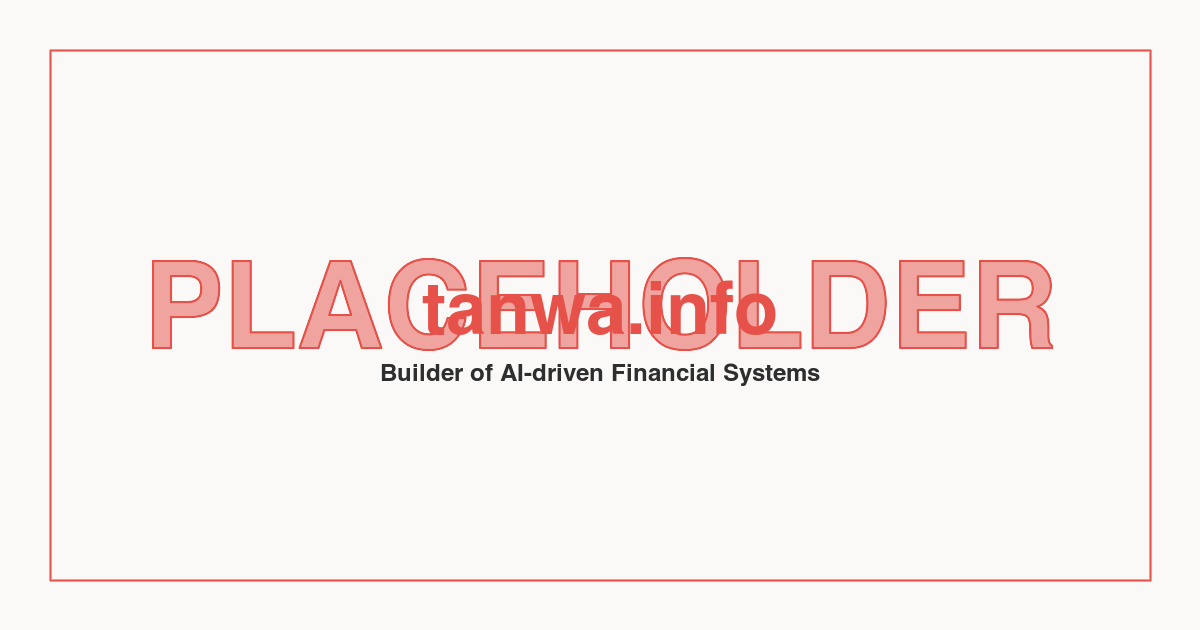
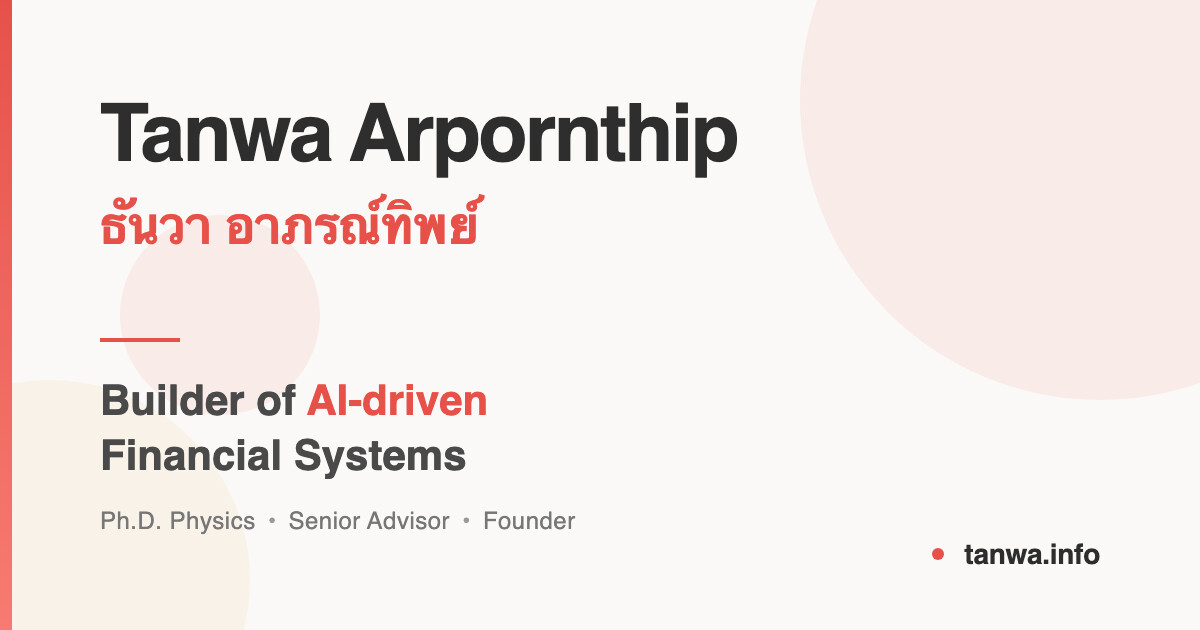
Update title to Senior Advisor and replace OG image with professional design
Position Update (VC Tech Advisor → Senior Advisor):
- Updated index.html hero section
- Updated research/content-brief.md
- Updated research/sources/linkedin.md
- Updated research/sources/ventures.md

New Open Graph Image:
- Professional design with brand colors (coral #E6524A, beige #FAF9F7)
- Prominent display of both English and Thai names
- Subtle geometric background elements for visual depth
- Updated credentials: "Ph.D. Physics • Senior Advisor • Founder"
- Optimized at 1200x630px for social sharing platforms
- Generated from og-image-template.html using Playwright

Design Features:
- Gradient coral accent line (left edge)
- Large, bold typography with improved hierarchy
- Coral divider separating name from tagline
- Footer with domain branding (tanwa.info)
- Matches site design system perfectly

This replaces the placeholder OG image with a professional, brand-aligned design
that will display correctly when the site is shared on social media platforms.

diff --git a/index.html b/index.html
@@ -537,7 +537,7 @@
         </h1>
 
         <p class="hero-sub">
-            Builder of AI-driven financial and human-capability systems. UVA Physics PhD turned VC tech advisor. Senior Technical Advisor at $700M VC.
+            Builder of AI-driven financial and human-capability systems. UVA Physics PhD turned Senior Advisor. Senior Technical Advisor at $700M VC.
         </p>
 
         <div class="about-section">

diff --git a/research/content-brief.md b/research/content-brief.md
@@ -143,7 +143,7 @@ LinkedIn, Scholar, GitHub, Newsletter
 > "Builder of AI-driven financial and human-capability systems. Founder & investor at the intersection of markets, automation, and learning. Senior Advisor at $700M VC."
 
 ### Recommended
-> "Physics PhD turned VC Tech Advisor. Senior Technical Advisor at SCB 10X. WikiExpo 2024 Award Winner. Building AI-augmented teams that punch like institutions."
+> "Physics PhD turned Senior Advisor. Senior Technical Advisor at SCB 10X. WikiExpo 2024 Award Winner. Building AI-augmented teams that punch like institutions."
 
 ---
 

diff --git a/research/sources/ventures.md b/research/sources/ventures.md
@@ -94,7 +94,7 @@
 
 ## Content Opportunities
 
-1. **VC Tech Advisor**: Bridges academia and investment
+1. **Senior Advisor**: Bridges academia and investment
 2. **Due Diligence Expert**: Technical evaluation for investments
 3. **Blockchain Researcher**: Academic + practical DeFi knowledge
 4. **AI Focus**: Both research and investment perspective

diff --git a/research/sources/linkedin.md b/research/sources/linkedin.md
@@ -6,7 +6,7 @@
 ## Profile Summary
 
 - **Name**: Tanwa Arpornthip
-- **Headline**: "VC Tech Advisor | University Lecturer | Bridging Tech & Investment"
+- **Headline**: "Senior Advisor | University Lecturer | Bridging Tech & Investment"
 - **Location**: Bangkok, Bangkok City, Thailand
 - **Connections**: 346
 - **Followers**: 406
